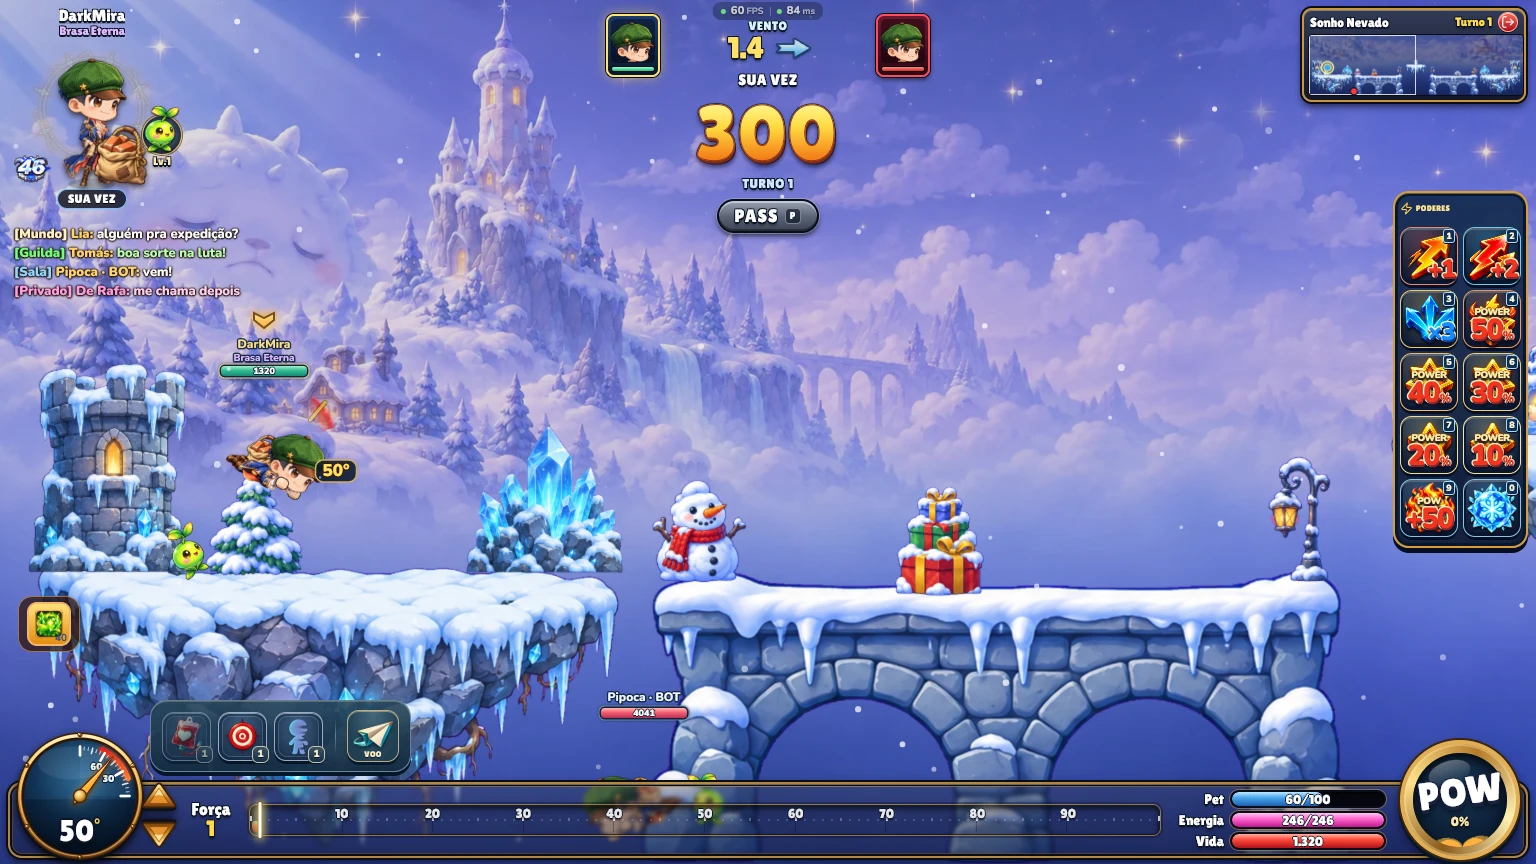
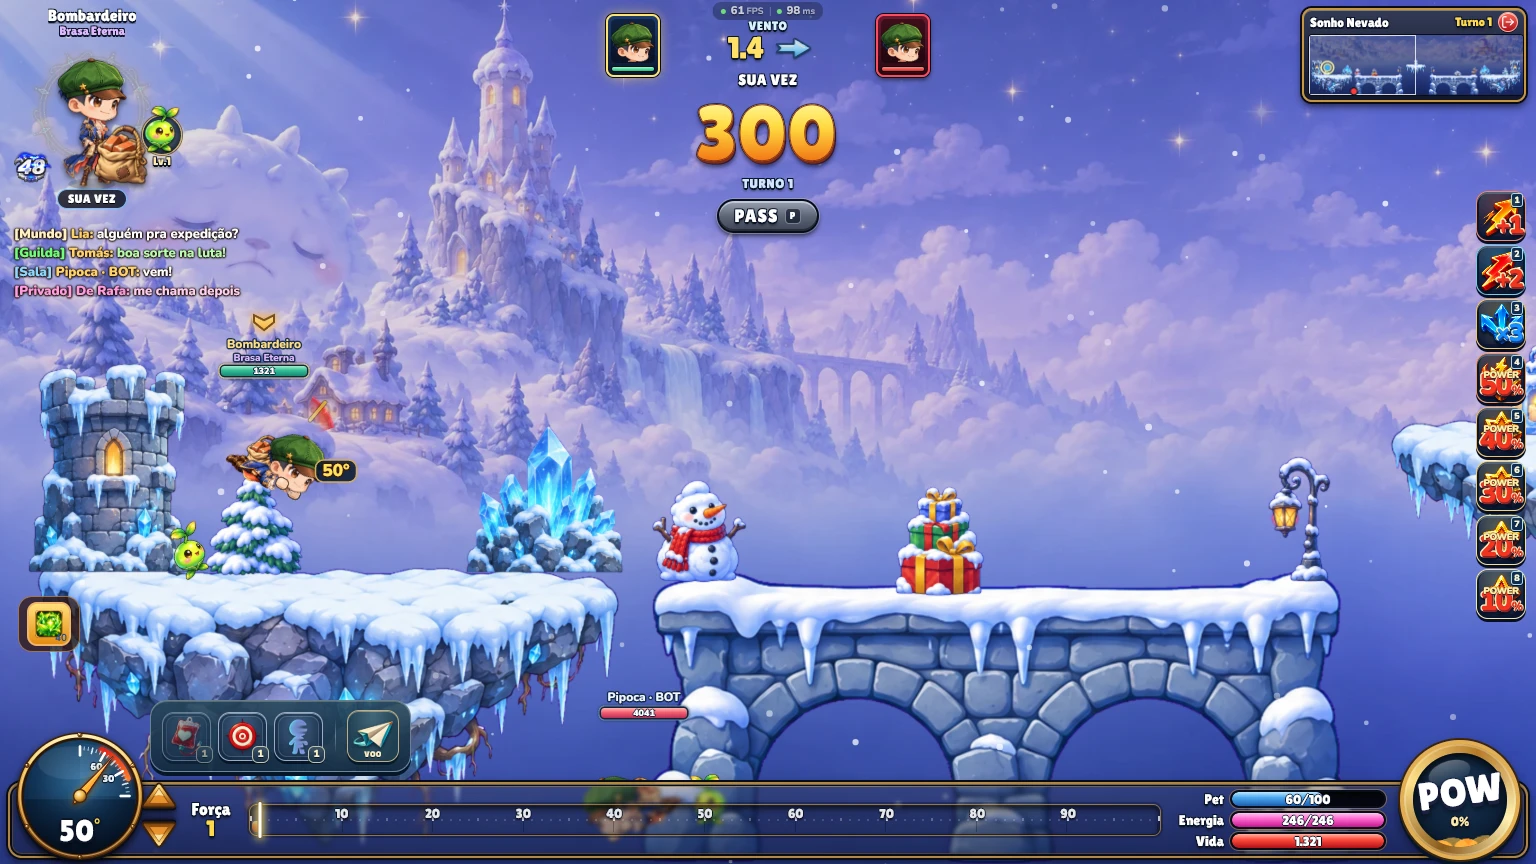
Barra de poderes em uma coluna, sem moldura; prints novos no site
The power-up bar is a single column of slightly smaller buttons with no
PODERES caption, background or blue frame (desktop; mobile keeps its row but
also loses the frame). Site screenshots of PvP, instance and World Boss retaken
with the current HUD.

diff --git a/src/components/BattleHud.css b/src/components/BattleHud.css
@@ -34,7 +34,7 @@
 .artillery-hud .turn-announcement>span:last-child:not(.battle-3d-text){font:900 10px 'Nunito',sans-serif;letter-spacing:3px;color:#fff7c8;padding:5px 19px;border-radius:20px;background:#10244cbf;text-shadow:0 2px #081b3f}
 .artillery-hud .turn-label{top:142px;padding:6px 19px;font-size:11px;font-weight:800;letter-spacing:.2px;border:1px solid #9bc3ef88;background:#0f244bd9;box-shadow:0 2px 7px #05132c55;color:#e8f6ff}
 
-.artillery-hud .boost-bar{right:18px;top:191px;gap:6px;padding:8px 8px 9px;border:2px solid #d99b39;border-radius:16px;background:linear-gradient(#142b51ee,#101b35f2);box-shadow:inset 0 1px #eff1a855,inset 0 0 0 3px #08172d,0 5px #050e22;z-index:3}
+.artillery-hud .boost-bar{right:18px;top:191px;gap:6px;padding:0;border:0;border-radius:0;background:none;box-shadow:none;z-index:3}
 .artillery-hud .boost-caption{display:flex;align-items:center;gap:3px;font-size:8px;letter-spacing:.6px;font-weight:900;color:#ffe591;margin-bottom:1px}
 .artillery-hud .boost-caption svg{color:#ffcb42}
 .artillery-hud .boost{--boost-color:#42bfff;width:66px;height:66px;position:relative;display:block;padding:0;overflow:visible;isolation:isolate;border-radius:12px;border:1px solid color-mix(in srgb,var(--boost-color) 65%,#f3e1ae);background:radial-gradient(ellipse at 48% 35%,color-mix(in srgb,var(--boost-color) 33%,#15294c),#101c37 76%);box-shadow:inset 0 2px #e4f4ff59,inset 0 0 0 2px #08172f,inset 0 -4px #050e2980,0 3px #080f26;transition:box-shadow .15s,border-color .15s}
@@ -62,7 +62,7 @@
 .artillery-hud .boost:disabled:not(.selected){opacity:.72;filter:brightness(.75)}
 .artillery-hud .boost.selected{opacity:1;filter:none;border:2px solid #fff39d;background:radial-gradient(#ad7223,#5b3526 74%);box-shadow:inset 0 0 0 2px #be792d,0 0 14px #ffc83c66,0 3px #291829}
 .artillery-hud .boost-ready{position:absolute;left:-5px;top:-5px;width:18px;height:18px;display:grid;place-items:center;border:1px solid #ffec91;border-radius:50%;background:#f8bd33;color:#52280f;font:900 12px 'Nunito',sans-serif;box-shadow:0 2px #301b26;z-index:2}
-@media(min-width:701px){.artillery-hud .boost-bar{right:8px;width:auto;padding-left:5px;padding-right:5px;display:grid;grid-template-columns:repeat(2,58px);gap:5px}.artillery-hud .boost-bar>.boost-caption{grid-column:1/-1}.artillery-hud .boost{width:58px;height:58px}}
+@media(min-width:701px){.artillery-hud .boost-bar{right:10px;width:auto;display:grid;grid-template-columns:50px;gap:4px}.artillery-hud .boost{width:50px;height:50px}}
 /* Enfurecer and Gelo carry their own paintings instead of an atlas cell. */
 .artillery-hud img.boost-own-icon{background:none;object-fit:contain}
 @media(prefers-reduced-motion:reduce){.artillery-hud .boost,.artillery-hud .boost-painted-icon{transition:none}.artillery-hud .boost:hover:not(:disabled) .boost-painted-icon,.artillery-hud .boost:focus-visible .boost-painted-icon,.artillery-hud .boost:active:not(:disabled) .boost-painted-icon{transform:none}}

diff --git a/src/components/BattleHudRefinement.css b/src/components/BattleHudRefinement.css
@@ -82,7 +82,7 @@ html.mobile-landscape .artillery-hud .turn-clock>small{font-size:5px;letter-spac
 html.mobile-landscape .artillery-hud .turn-label{top:calc(111px / var(--game-scale));transform:translateX(-50%) scale(calc(1 / var(--game-scale)));transform-origin:top center;font-size:8px;padding:4px 10px;white-space:nowrap}
 html.mobile-landscape .artillery-hud .turn-announcement{top:calc(125px / var(--game-scale))}
 html.mobile-landscape .artillery-hud .battle-console{left:50%;right:auto;bottom:calc((6px + env(safe-area-inset-bottom)) / var(--game-scale));width:calc(100% * var(--game-scale) - 20px - env(safe-area-inset-left) - env(safe-area-inset-right));max-width:none;height:85px;transform:translateX(-50%) scale(calc(1 / var(--game-scale)));transform-origin:bottom center;gap:9px;padding:7px 11px 7px 8px;border-width:1px;border-radius:17px 17px 13px 13px}
-html.mobile-landscape .artillery-hud .boost-bar{top:auto;bottom:calc((100px + env(safe-area-inset-bottom)) / var(--game-scale));right:calc(13px / var(--game-scale));width:auto;flex-direction:row;gap:5px;padding:6px;transform:scale(calc(1 / var(--game-scale)));transform-origin:bottom right;border-width:1px;border-radius:12px;background:linear-gradient(#233f54ed,#132b40f2);box-shadow:inset 0 1px #e9e0bb33,0 3px #07192a}
+html.mobile-landscape .artillery-hud .boost-bar{top:auto;bottom:calc((100px + env(safe-area-inset-bottom)) / var(--game-scale));right:calc(13px / var(--game-scale));width:auto;flex-direction:row;gap:5px;padding:6px;transform:scale(calc(1 / var(--game-scale)));transform-origin:bottom right;border:0;border-radius:0;background:none;box-shadow:none}
 html.mobile-landscape .artillery-hud .boost-caption{display:none}
 html.mobile-landscape .artillery-hud .boost{width:39px;height:39px;min-width:39px;border-radius:8px}
 html.mobile-landscape .artillery-hud .boost-symbol-label>strong{font-size:20px;-webkit-text-stroke-width:1.8px}

diff --git a/src/components/BattleHud.tsx b/src/components/BattleHud.tsx
@@ -13,7 +13,6 @@ import {DRAGON_TURN_ID} from '../../shared/worldBoss';
 import {WorldBossBanner,WorldBossBar} from './WorldBoss';
 import {useCallback,useEffect,useLayoutEffect,useRef,useState} from 'react';
 import type {CSSProperties,MouseEvent as ReactMouseEvent,PointerEvent as ReactPointerEvent} from 'react';
-import {Zap} from 'lucide-react';
 import {BOOSTS,WEAPONS} from '../../shared/catalog';
 import {normalizeAbilityLoadout,TOOL_ABILITIES} from '../../shared/abilities';
 import {powerUpConflict} from '../../shared/powerUps';
@@ -297,7 +296,6 @@ export function BattleHud({angle,setAngle,blocked}:{angle:number;setAngle:(v:num
 
   <PetSkillBar fighter={me} canAct={canAct} mode={instance?'pve':'pvp'}/>
   <aside className="boost-bar" aria-label="Ferramentas de batalha">
-   <div className="boost-caption"><Zap size={15}/> PODERES</div>
    {BOOSTS.map((boost,index)=>{
      if(isToolAbility(boost.id))return null;
      const count=b.turnId===me.id?me.boosts.filter(id=>id===boost.id).length:0,selected=count>0,disabled=!canAct||me.flightArmed||(b.turnId===me.id&&!!powerUpConflict(me.boosts,boost.id))||powBlocks(boost.id)||toolBlocks(boost.id)||me.stamina<boost.cost;
